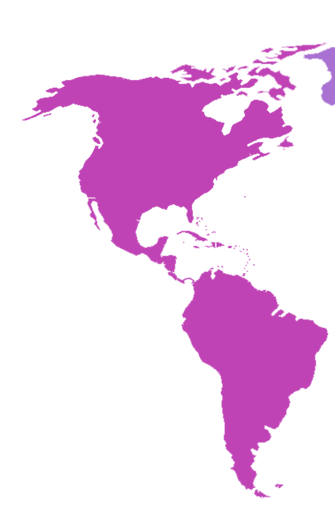
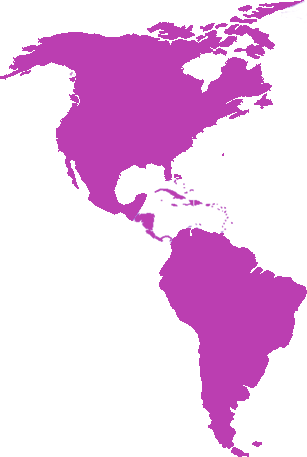
Maps_v1

Changed region(s): [[0.0, 0.0, 1.0, 1.0], [0.8208, 0.919, 0.8502, 0.9803]]

diff --git a/MapSelector/css/stylesheet.css b/MapSelector/css/stylesheet.css
@@ -1,26 +1,77 @@
-html, body{
-    width:100%;
-    height:100%;
-    margin:0;
-    padding:0;
-}
-
-.map{
-    display:inline-block;
-    width:100%;
-    float:left;
-    height:519px;
+html, body {
+    width: 100%;
+    height: 100%;
+    margin: 0;
+    padding: 0;
 }
 
 img{
-    height:100%;
     width:auto;
+    height:100%;
     float:left;
+    padding:0;
+    margin:0;
 }
 
-.map-part{
-    width:auto;
-    height:auto;
-    float:left;
+.map {
+    position: absolute;
+    width: auto;
+    float: left;
+    height: 50%;
+    background-repeat: no-repeat;
+    background-size: contain;
+}
+
+.americas, .africa, .asia, .europe, .saudi{
+    position: absolute;
+    width: auto;
+    cursor:pointer;
+}
+
+.americas img, .africa img, .asia img, .europe img, .saudi img{
+    opacity:0;
+}
+
+.americas img:hover, .africa img:hover, .asia img:hover, .europe img:hover, .saudi img:hover{
+    opacity:100;
+}
+
+.americas {
+    float: left;
+    height: 89.5%;
+    bottom:3.75%;
+    z-index:1;
+    left:4%;
+}
+
+.africa {
+    float: right;
+    height: 70.5%;
     bottom:0;
+    right:0;
+    z-index:2;
+}
+
+.europe {
+    float: right;
+    height: 27.2%;
+    top:8.4%;
+    right:39.75%;
+    z-index:4;
+}
+
+.saudi {
+    float: right;
+    height: 20%;
+    top:31%;
+    right:38.35%;
+    z-index:5;
+}
+
+.asia {
+    float: right;
+    height: 82%;
+    bottom:9.7%;
+    right:6.15%;
+    z-index:3;
 }

diff --git a/MapSelector/index.html b/MapSelector/index.html
@@ -9,11 +9,24 @@
 </head>
 <body>
     <div class="map">
-        <div class="map-part">
-            <img src="img/americas.png" />
+        <img src="img/solid-map.png" />
+        <div class="americas">
+            <img src="img/americasHighlight.png" />
         </div>
-        <div class="map-part">
-            <img src="img/africa.png" />
+        <div class="africa">
+            <img src="img/africaHighlight.png" />
+        </div>
+        <div class="europe">
+            <img src="img/europeHighlight.png" />
+        </div>
+        <div class="saudi">
+            <img src="img/saudiHighlight.png" />
+        </div>
+        <div class="saudi">
+            <img src="img/saudiHighlight.png" />
+        </div>
+        <div class="asia">
+            <img src="img/asiaHighlight.png" />
         </div>
     </div>
 </body>
